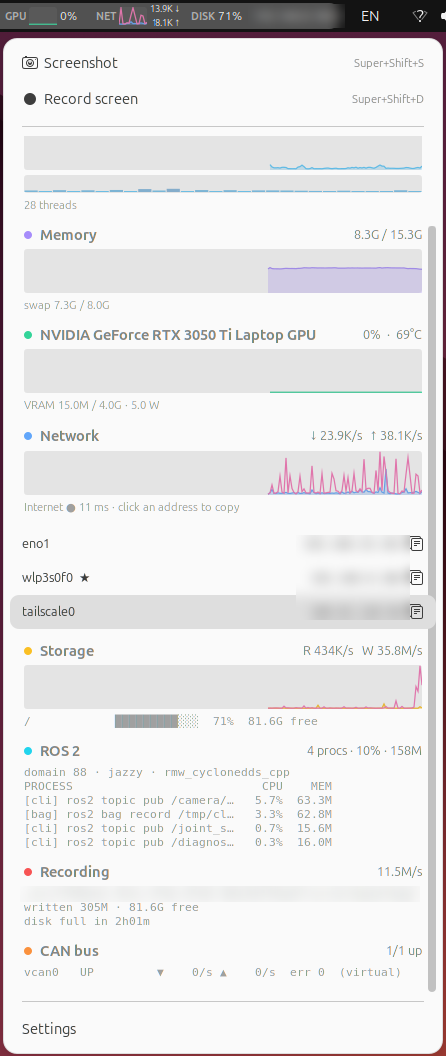
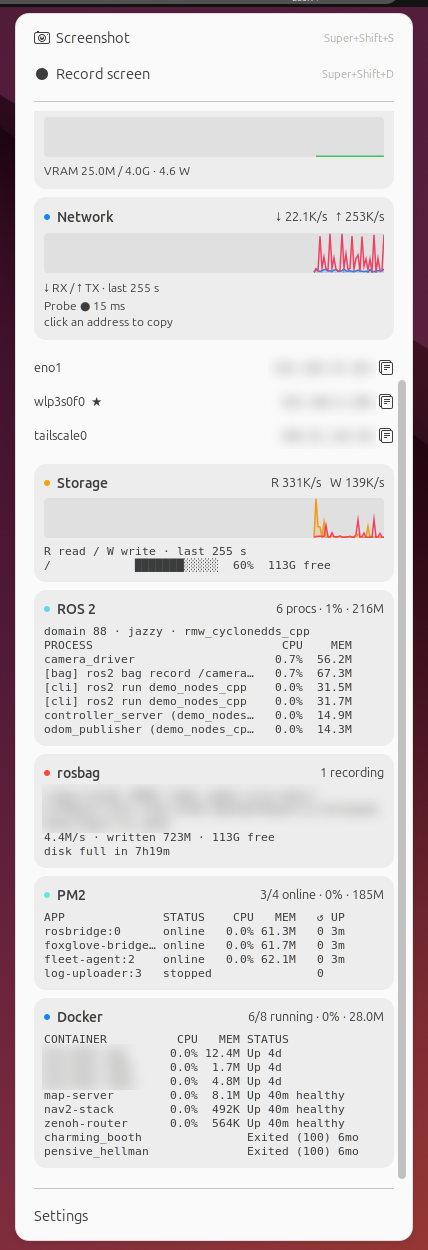
Restyle UI Apple-like with Color / Monochrome option, refresh screenshots
- Control Center-style rounded tiles, lighter type, Apple system palette
- New `style` setting (Settings → General): color or mono; mono grays every
  graph, badge and dot and inverts alerts instead of turning them red
- New panel (color + mono) and dashboard captures with PM2 and Docker
- README: PM2/Docker and style highlights, perf numbers, wording fixes

diff --git a/src/extension.js b/src/extension.js
@@ -22,22 +22,27 @@ import * as Clip from './clipboard.js';
 
 const HISTORY = 180;
 const PANEL_GRAPH_H = 18;
-const MENU_GRAPH = [340, 44];
+const MENU_GRAPH = [340, 40];
 
+// Apple system colors (dark variants).
 const COLOR = {
-    cpu: [0.35, 0.78, 0.98],
-    ram: [0.65, 0.55, 0.98],
-    gpu: [0.20, 0.83, 0.60],
-    rx: [0.38, 0.65, 0.98],
-    tx: [0.96, 0.45, 0.71],
-    disk: [0.98, 0.75, 0.14],
-    ros: [0.13, 0.83, 0.93],
-    can: [0.98, 0.57, 0.24],
-    pm2: [0.40, 0.85, 0.75],
-    docker: [0.13, 0.59, 0.95],
-    dev: [0.75, 0.85, 0.30],
-    rec: [0.97, 0.33, 0.33],
+    cpu: [0.04, 0.52, 1.00], // blue
+    ram: [0.37, 0.36, 0.90], // indigo
+    gpu: [0.19, 0.82, 0.35], // green
+    rx: [0.04, 0.52, 1.00],
+    tx: [1.00, 0.22, 0.37], // pink
+    disk: [1.00, 0.62, 0.04], // orange
+    ros: [0.39, 0.82, 1.00], // cyan
+    can: [1.00, 0.62, 0.04],
+    pm2: [0.40, 0.90, 0.89], // mint
+    docker: [0.04, 0.52, 1.00],
+    dev: [0.19, 0.82, 0.35],
+    rec: [1.00, 0.27, 0.23], // red
 };
+// style = 'mono': grays only. The top bar is always dark, the menu may not be.
+let monochrome = false;
+const MONO_PANEL = [0.92, 0.92, 0.94];
+const MONO_MENU = [0.55, 0.55, 0.58];
 
 const css = ([r, g, b]) => `rgb(${Math.round(r * 255)},${Math.round(g * 255)},${Math.round(b * 255)})`;
 const pct = v => `${Math.round(v ?? 0)}%`;
@@ -92,8 +97,9 @@ class History {
 // max === null auto-scales to the visible window (used for byte rates).
 const Graph = GObject.registerClass(
 class MoniGraph extends St.DrawingArea {
-    _init(series, width, height, max) {
+    _init(series, width, height, max, panel = false) {
         super._init({style_class: 'moni-graph', y_align: Clutter.ActorAlign.CENTER});
+        this._panel = panel;
         this.set_style(`width: ${width}px; height: ${height}px;`);
         this._series = series;
         this._max = max;
@@ -119,17 +125,17 @@ class MoniGraph extends St.DrawingArea {
                 continue;
             const x0 = w - (vals.length - 1) * step;
             const y = v => h - Math.min(1, v / max) * (h - 1.5) - 0.75;
-            const [r, g, b] = s.color;
+            const [r, g, b] = monochrome ? this._panel ? MONO_PANEL : MONO_MENU : s.color;
             cr.moveTo(x0, y(vals[0]));
             vals.forEach((v, i) => cr.lineTo(x0 + i * step, y(v)));
             cr.setSourceRGBA(r, g, b, 1);
-            cr.setLineWidth(1.25);
+            cr.setLineWidth(1.5);
             if (s.fill) {
                 cr.strokePreserve();
                 cr.lineTo(w, h);
                 cr.lineTo(x0, h);
                 cr.closePath();
-                cr.setSourceRGBA(r, g, b, 0.28);
+                cr.setSourceRGBA(r, g, b, 0.2);
                 cr.fill();
             } else {
                 cr.stroke();
@@ -156,8 +162,10 @@ class MoniCoreBars extends St.DrawingArea {
         const bw = n ? w / n : w;
         this.values.forEach((v, i) => {
             const t = Math.min(1, v / 100);
-            // cool → hot as a core saturates
-            cr.setSourceRGBA(0.35 + 0.62 * t, 0.78 - 0.45 * t, 0.98 - 0.65 * t, 0.9);
+            // blue → red as a core saturates; gray gets denser in mono
+            const [a, b] = monochrome ? [MONO_MENU, MONO_MENU] : [COLOR.cpu, COLOR.rec];
+            cr.setSourceRGBA(a[0] + (b[0] - a[0]) * t, a[1] + (b[1] - a[1]) * t, a[2] + (b[2] - a[2]) * t,
+                monochrome ? 0.45 + 0.45 * t : 0.85);
             const bh = Math.max(1, t * (h - 2));
             cr.rectangle(i * bw + 0.5, h - 1 - bh, Math.max(1, bw - 1), bh);
             cr.fill();
@@ -169,10 +177,11 @@ class MoniCoreBars extends St.DrawingArea {
 function makeCard(title, color) {
     const box = new St.BoxLayout({vertical: true, style_class: 'moni-card', x_expand: true});
     const head = new St.BoxLayout({style_class: 'moni-card-head'});
-    head.add_child(new St.Widget({
+    const dot = new St.Widget({
         style_class: 'moni-dot', style: `background-color: ${css(color)};`,
-        y_align: Clutter.ActorAlign.CENTER,
-    }));
+        y_align: Clutter.ActorAlign.CENTER, visible: !monochrome,
+    });
+    head.add_child(dot);
     const label = new St.Label({text: title, style_class: 'moni-card-title', x_expand: true, y_align: Clutter.ActorAlign.CENTER});
     head.add_child(label);
     const value = new St.Label({
@@ -186,7 +195,7 @@ function makeCard(title, color) {
     detail.clutter_text.line_wrap = true;
     detail.clutter_text.line_wrap_mode = 2; // Pango.WrapMode.WORD_CHAR
     detail.clutter_text.ellipsize = 0;
-    return {box, label, value, detail, add: w => box.add_child(w), finish: () => box.add_child(detail)};
+    return {box, label, value, detail, dot, add: w => box.add_child(w), finish: () => box.add_child(detail)};
 }
 
 const MoniIndicator = GObject.registerClass(
@@ -239,6 +248,7 @@ class MoniIndicator extends PanelMenu.Button {
     _buildPanel() {
         this._panel.destroy_all_children();
         const s = this._settings;
+        this._applyStyle();
         const gw = s.get_int('graph-width');
         const showText = s.get_boolean('show-text');
         this._chips = {};
@@ -248,7 +258,7 @@ class MoniIndicator extends PanelMenu.Button {
             l.opacity = cls ? 255 : 150;
             l.clutter_text.ellipsize = 0; // never "…" the panel; Pango.EllipsizeMode.NONE
             box.add_child(l);
-            const graph = series ? new Graph(series, gw, PANEL_GRAPH_H, max) : null;
+            const graph = series ? new Graph(series, gw, PANEL_GRAPH_H, max, true) : null;
             if (graph)
                 box.add_child(graph);
             const value = new St.Label({style_class: 'moni-value', y_align: Clutter.ActorAlign.CENTER});
@@ -656,7 +666,7 @@ class MoniIndicator extends PanelMenu.Button {
                 const status = `${C.compactDockerStatus(x.status)}${x.restarts ? ` ↺${x.restarts}` : ''}`;
                 return `${(x.name.length > 16 ? `${x.name.slice(0, 15)}…` : x.name).padEnd(16)} ` +
                     `${(on ? `${x.cpu.toFixed(1)}%` : '').padStart(5)} ${(on ? fmtBytes(x.mem) : '').padStart(5)} ` +
-                    `${status}${dockerTrouble(x) ? '  ⚠' : ''}`;
+                    `${status}${dockerTrouble(x) ? ' ⚠' : ''}`;
             });
             if (ctrs.length > 12)
                 rows.push(`… ${ctrs.length - 12} more`);
@@ -898,6 +908,14 @@ class MoniIndicator extends PanelMenu.Button {
         this._updatePanel();
         if (this.menu.isOpen)
             this._refreshMenu();
+    }
+
+    _applyStyle() {
+        monochrome = this._settings.get_string('style') === 'mono';
+        for (const actor of [this._panel, this.menu.box])
+            actor[monochrome ? 'add_style_class_name' : 'remove_style_class_name']('moni-style-mono');
+        for (const c of Object.values(this._cards ?? {}))
+            c.dot.visible = !monochrome;
     }
 
     _onSetting(key) {

diff --git a/src/stylesheet.css b/src/stylesheet.css
@@ -1,34 +1,42 @@
-.moni-panel { spacing: 7px; }
-.moni-chip { spacing: 3px; }
-.moni-chip-label { font-size: 8pt; font-weight: bold; }
+/* Top bar: light weight, tabular numbers; style = mono swaps every color for grays. */
+.moni-panel { spacing: 9px; }
+.moni-chip { spacing: 4px; }
+.moni-chip-label { font-size: 8pt; font-weight: 600; letter-spacing: 0.3px; }
 .moni-value { font-size: 9pt; font-feature-settings: "tnum"; min-width: 2.4em; text-align: right; }
 .moni-value-net { font-size: 7pt; min-width: 3.6em; }
-.moni-graph { background-color: rgba(128, 128, 128, 0.18); border-radius: 3px; }
+.moni-graph { background-color: rgba(128, 128, 128, 0.12); border-radius: 4px; }
 
-.moni-badge { border-radius: 9px; padding: 1px 7px; }
-.moni-badge .moni-chip-label, .moni-badge .moni-value { font-size: 8.5pt; font-weight: bold; min-width: 0; }
-.moni-badge-ros { background-color: rgba(34, 211, 238, 0.20); color: #67e8f9; }
-.moni-badge-can { background-color: rgba(251, 146, 60, 0.20); color: #fdba74; }
-.moni-badge-pm2 { background-color: rgba(45, 212, 191, 0.20); color: #5eead4; }
-.moni-badge-docker { background-color: rgba(33, 150, 243, 0.22); color: #7cc4fa; }
-.moni-badge-rec { background-color: rgba(248, 84, 84, 0.22); color: #fca5a5; }
-.moni-alert { background-color: rgba(239, 68, 68, 0.85); color: #ffffff; }
+.moni-badge { border-radius: 99px; padding: 1px 8px; }
+.moni-badge .moni-chip-label, .moni-badge .moni-value { font-size: 8.5pt; font-weight: 600; min-width: 0; }
+.moni-badge-ros { background-color: rgba(100, 210, 255, 0.18); color: #64d2ff; }
+.moni-badge-can { background-color: rgba(255, 159, 10, 0.18); color: #ff9f0a; }
+.moni-badge-pm2 { background-color: rgba(102, 212, 207, 0.18); color: #66d4cf; }
+.moni-badge-docker { background-color: rgba(10, 132, 255, 0.20); color: #409cff; }
+.moni-badge-rec { background-color: rgba(255, 69, 58, 0.18); color: #ff6961; }
+.moni-alert { background-color: #ff453a; color: #ffffff; }
 
-.moni-dash { spacing: 14px; min-width: 360px; padding: 4px 2px; }
-.moni-card { spacing: 5px; }
-.moni-card-head { spacing: 8px; width: 360px; }
-.moni-dot { width: 8px; height: 8px; border-radius: 4px; }
-.moni-card-title { font-weight: bold; }
-.moni-host { font-size: 12pt; }
-.moni-card-value { font-feature-settings: "tnum"; font-size: 9.5pt; }
-.moni-detail { font-size: 9.5pt; width: 360px; }
-.moni-mono { font-family: monospace; font-size: 9pt; }
+/* style = mono: neutral pills; alerts invert instead of turning red. */
+.moni-style-mono .moni-badge { background-color: rgba(255, 255, 255, 0.12); color: #f2f2f7; }
+.moni-style-mono .moni-badge .moni-chip-label { color: rgba(242, 242, 247, 0.6); }
+.moni-style-mono .moni-alert { background-color: #f2f2f7; color: #000000; }
+.moni-style-mono .moni-alert .moni-chip-label { color: rgba(0, 0, 0, 0.6); }
+
+/* Menu: grouped tiles like Control Center. */
+.moni-dash { spacing: 8px; min-width: 360px; padding: 2px 0; }
+.moni-card { spacing: 6px; padding: 10px; border-radius: 12px; background-color: rgba(128, 128, 128, 0.10); }
+.moni-card-head { spacing: 7px; width: 340px; }
+.moni-dot { width: 6px; height: 6px; border-radius: 3px; }
+.moni-card-title { font-weight: 600; font-size: 10.5pt; }
+.moni-host { font-size: 11.5pt; }
+.moni-card-value { font-feature-settings: "tnum"; font-size: 9.5pt; color: rgba(128, 128, 128, 1); }
+.moni-detail { font-size: 9pt; width: 340px; }
+.moni-mono { font-family: monospace; font-size: 8.5pt; }
 .moni-ip-iface { font-size: 9.5pt; }
-.moni-accel { font-size: 8.5pt; padding-left: 24px; }
-.moni-select-hint { background-color: rgba(0, 0, 0, 0.75); color: #ffffff; border-radius: 6px; padding: 6px 12px; font-size: 10.5pt; }
-.moni-pin { box-shadow: 0 4px 18px rgba(0, 0, 0, 0.55); border: 1px solid rgba(255, 255, 255, 0.25); }
-.moni-clip-search { min-width: 340px; }
+.moni-accel { font-size: 8.5pt; padding-left: 24px; color: rgba(128, 128, 128, 1); }
+.moni-select-hint { background-color: rgba(30, 30, 30, 0.82); color: #ffffff; border-radius: 10px; padding: 7px 14px; font-size: 10.5pt; }
+.moni-pin { box-shadow: 0 8px 28px rgba(0, 0, 0, 0.45); border: 1px solid rgba(255, 255, 255, 0.18); border-radius: 6px; }
+.moni-clip-search { min-width: 340px; border-radius: 8px; }
 .moni-clip-scroll { max-height: 460px; }
-.moni-clip-header { font-size: 8.5pt; font-weight: bold; }
-.moni-clip-star { padding: 2px 4px; border-radius: 4px; }
-.moni-clip-star:hover { background-color: rgba(128, 128, 128, 0.25); }
+.moni-clip-header { font-size: 8pt; font-weight: 600; color: rgba(128, 128, 128, 1); }
+.moni-clip-star { padding: 2px 4px; border-radius: 6px; }
+.moni-clip-star:hover { background-color: rgba(128, 128, 128, 0.2); }

diff --git a/src/prefs.js b/src/prefs.js
@@ -147,6 +147,14 @@ export default class MoniPreferences extends ExtensionPreferences {
             dd.selected = Math.max(0, POSITIONS.indexOf(settings.get_string('panel-position')));
         });
         row(general, 'Panel position', '', dd);
+        const STYLES = ['color', 'mono'];
+        const style = Gtk.DropDown.new_from_strings(['Color', 'Monochrome']);
+        style.selected = Math.max(0, STYLES.indexOf(settings.get_string('style')));
+        style.connect('notify::selected', () => settings.set_string('style', STYLES[style.selected]));
+        settings.connect('changed::style', () => {
+            style.selected = Math.max(0, STYLES.indexOf(settings.get_string('style')));
+        });
+        row(general, 'Style', 'Apple system colors, or grays only', style);
 
         const backup = group('Backup', 'Move your Moni setup — toggles, shortcuts and ★ clipboard favorites — to another machine.');
         const choose = (title, action, onFile) => {

diff --git a/README.md b/README.md
@@ -4,8 +4,8 @@
 
 **The top-bar system monitor for people who ship robots.**
 
-CPU · RAM · GPU · network · disk · IP, plus ROS 2 processes, rosbag disk ETA, CAN bus, PM2 apps, Docker containers, sensor hotplug
-Shottr-style screenshots & screen recording and a clipboard history. All of it lives in the GNOME panel.
+CPU · RAM · GPU · network · disk · IP, plus ROS 2 processes, rosbag disk ETA, CAN bus, PM2 apps, Docker containers and sensor hotplug.
+Shottr-style screenshots, screen recording and a clipboard history. All of it lives in the GNOME panel.
 
 [![GNOME Shell](https://img.shields.io/badge/GNOME_Shell-42_→_48-4A86CF?logo=gnome&logoColor=white)](#compatibility)
 [![Ubuntu](https://img.shields.io/badge/Ubuntu-22.04_|_24.04-E95420?logo=ubuntu&logoColor=white)](#compatibility)
@@ -13,7 +13,9 @@ Shottr-style screenshots & screen recording and a clipboard history. All of it l
 [![Runtime deps](https://img.shields.io/badge/extra_runtime_deps-0-success)](#how-it-works)
 [![License: MIT](https://img.shields.io/badge/license-MIT-blue)](LICENSE)
 
-<img src="docs/panel.png" alt="Moni in the GNOME top bar: BAG badge with time until disk full, ROS process count, CAN frame rate, CPU/RAM/GPU/NET sparklines and disk usage" width="100%">
+<img src="docs/panel.png" alt="Moni in the GNOME top bar, Color style: BAG badge with time until disk full, ROS process count, PM2 online/total, Docker running containers, CPU/RAM/GPU/NET sparklines and disk usage" width="100%">
+<img src="docs/panel-mono.png" alt="The same top bar in the Monochrome style: gray badges and gray sparklines" width="100%">
+<sub>Settings → General → Style: <b>Color</b> (Apple system colors, top) or <b>Monochrome</b> (grays only, bottom).</sub>
 
 [GitHub](https://github.com/ingjae/moni) · [Highlights](#-highlights) · [Features](#features) · [Install](#install) · [How it works](#how-it-works) · [Configuration](#configuration)
 
@@ -82,14 +84,14 @@ in the panel until you press the shortcut again.
 
 ### 🧭 Never covers the clock
 On a crowded panel, Moni measures the free space up to the clock and hides the least important chips
-first. Alerts like recording, rosbag, ROS and CAN are the last to go. Anything hidden is still in the
-dropdown.
+first. Alerts like recording, rosbag, ROS, CAN, PM2 and Docker are the last to go. Anything hidden is
+still in the dropdown.
 
 </td>
 <td valign="top">
 
 ### 🪶 Light enough to forget about
-One GJS extension that reads `/proc` and `/sys`: no Python, no daemon, no `ros2` CLI polling. A
+One GJS extension that reads `/proc` and `/sys`: no Python, no daemon, no `ros2` / `pm2` / `docker` CLI polling. A
 sampling tick takes **0.35 ms**, about 0.1 % of one core in total. A sleeping laptop dGPU shows `zZ`
 and is **not woken up** just to be measured.
 
@@ -113,14 +115,31 @@ on the robot PC and you're done. Unknown or mistyped values are skipped, never c
 
 </td>
 </tr>
+<tr>
+<td valign="top">
+
+### 🐳 PM2 and Docker, crash-aware
+`PM2 3/4` and `DOCKER 6` count what is up. A crash loop, an errored app, a restarting or unhealthy
+container turns the badge red and sends a notification. Read from `~/.pm2`, `/proc`, the Docker socket
+and cgroups, so neither CLI is ever spawned.
+
+</td>
+<td valign="top">
+
+### 🎨 Color or monochrome
+Rounded, quiet, Control Center-style tiles. **Color** uses Apple's system palette; **Monochrome** turns
+every graph, badge and dot gray, and alerts invert to white instead of red. Switch live in Settings.
+
+</td>
+</tr>
 </table>
 
 <p align="center">
-  <img src="docs/dashboard.png" alt="Moni dropdown: Screenshot and Record actions on top, then memory, NVIDIA GPU, network with copyable IPs, storage, ROS 2 process table, rosbag recording ETA and CAN bus" width="380">
+  <img src="docs/dashboard.png" alt="Moni dropdown, scrolled: Screenshot and Record actions on top, then network with copyable IPs, storage, ROS 2 process table, rosbag recording ETA, PM2 apps and Docker containers" width="380">
   &nbsp;&nbsp;
   <img src="docs/editor.png" alt="Moni Shot editor with an arrow, a rectangle, numbered steps and a 560 px ruler" width="560">
 </p>
-<p align="center"><sub>Real captures on Ubuntu 24.04 / GNOME 46. Left: the dropdown (it scrolls; capture actions stay on top). Right: the Moni Shot editor. Hostname, IPs and paths are blurred.</sub></p>
+<p align="center"><sub>Real captures on Ubuntu 24.04 / GNOME 46. Left: the dropdown, scrolled to the robotics tiles (capture actions stay on top). Right: the Moni Shot editor. IPs, paths and internal container names are blurred.</sub></p>
 
 ## Features
 
@@ -225,6 +244,7 @@ flowchart LR
     C --> UI["extension.js<br/>sparklines · dashboard · auto-fit"]
     X --> UI
     N["nvidia-smi<br/>(only while dGPU is awake)"] -.-> C
+    Q["~/.pm2 files<br/>Docker socket + cgroups"] --> C
     UI --> K["capture.js<br/>area select · Shell.Screenshot · pins"]
     K --> E["editor.js<br/>GTK 4 Moni Shot"]
     E -- "COPY / PIN / SAVED (stdout)" --> K
@@ -249,6 +269,8 @@ where an extension runs.
 | Core tick (CPU, mem, net, disk I/O, CAN, temp) | **0.35 ms** | every 1.5 s |
 | ROS radar scan (warm, ~500 processes) | **2.5 ms** | every 3 s |
 | ROS radar first scan (cold) | 33 ms | once |
+| PM2 scan (`~/.pm2` + `/proc`) | ~1 ms | every 3 s |
+| Docker poll (socket + cgroups) | ~11–15 ms, async | every 3 s |
 | `ip`, latency probe | async subprocess / socket | every 10 s |
 
 The dropdown is only computed while it is open.
@@ -267,6 +289,7 @@ gsettings --schemadir ~/.local/share/gnome-shell/extensions/moni@ingjae.github.i
 |---|---|---|
 | `update-interval` | `1500` | ms between samples |
 | `panel-position` | `right` | `left` / `center` / `right` |
+| `style` | `color` | `color` (Apple system colors) / `mono` (grays only; alerts invert instead of turning red) |
 | `graph-width` | `28` | px per panel sparkline |
 | `show-text` | `true` | numbers next to graphs |
 | `show-cpu` `show-ram` `show-gpu` `show-net` `show-disk` `show-ip` | `true` | panel chips |
@@ -331,7 +354,7 @@ tests/            collector smoke tests, settings backup round trip, UI regressi
 ```
 
 ```bash
-make test      # collector tests (ESM) + legacy build load/syntax check
+make test      # collector, settings-backup and UI-regression tests + legacy build load/syntax check
 make test-ui   # GTK editor rendering regression tests (requires a graphical session)
 make nested    # throwaway GNOME Shell in a window with Moni loaded
 make logs      # follow gnome-shell logs filtered for moni
